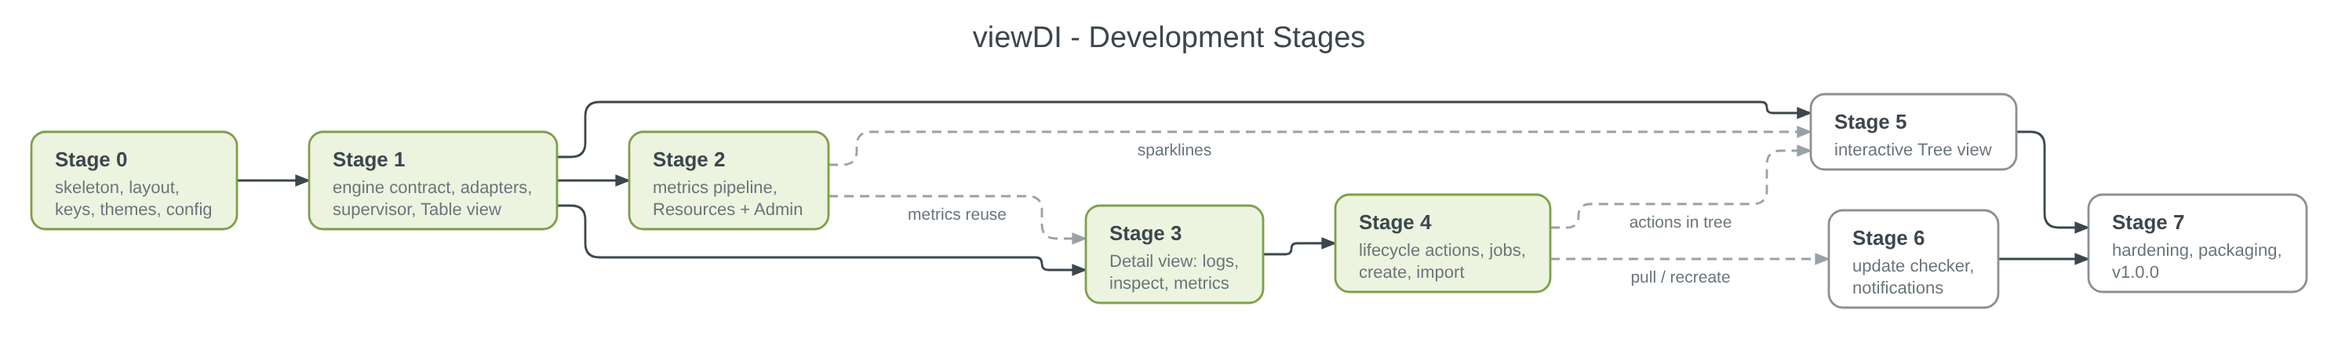
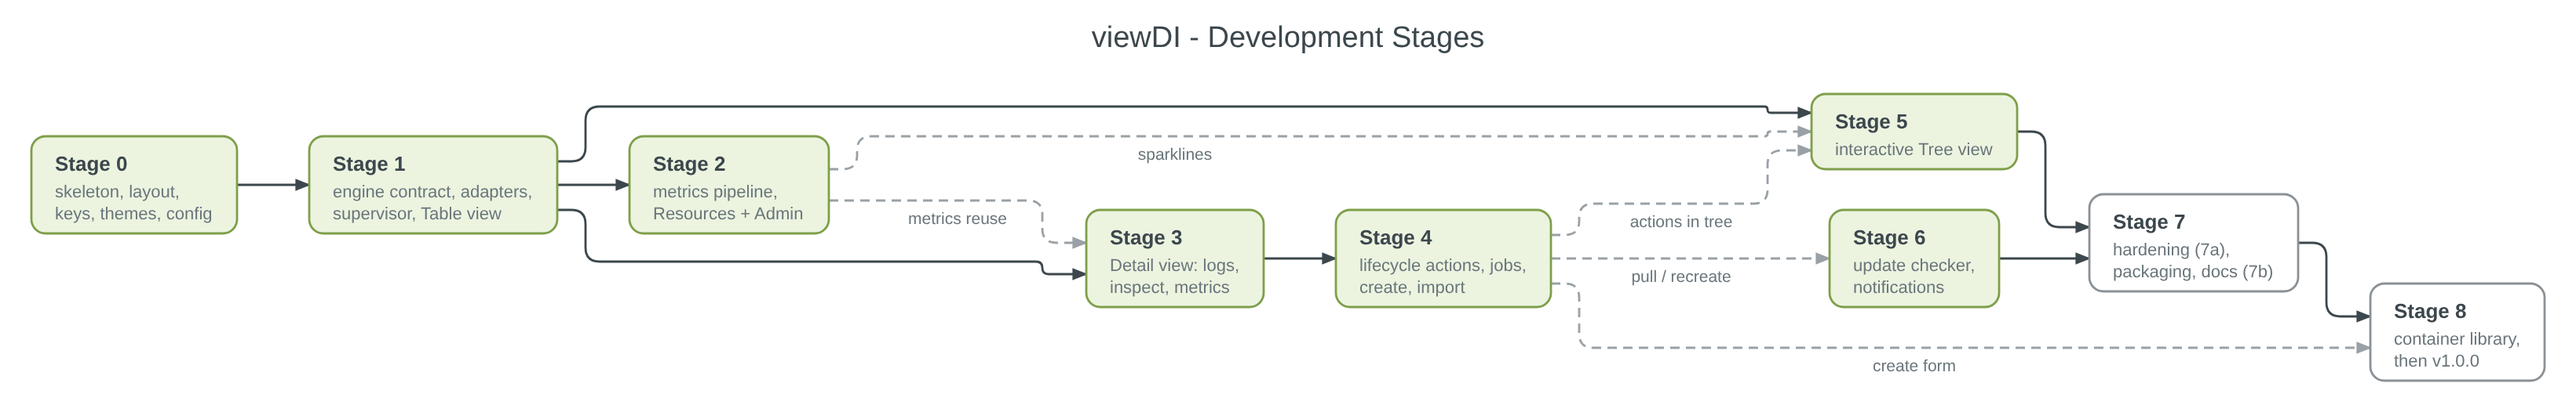
docs(plan): detail stage 7 (7a/7b) and propose stage 8, container library

diff --git a/docs/04-development-plan.md b/docs/04-development-plan.md
@@ -24,7 +24,8 @@ below is the recommended serial order for a single developer, which satisfies bo
 | 4 | Lifecycle actions, job runner, create forms, import | L | `v0.5.0` |
 | 5 | Interactive Tree view (5a), labs and animated links (5b) | M | `v0.6.0`, `v0.6.1` |
 | 6 | Update checker (6a), acting on updates and desktop notifications (6b) | M | `v0.7.0`, `v0.8.0` |
-| 7 | Hardening, packaging, docs | M | `v0.9.0` |
+| 7 | Hardening (7a), packaging and docs (7b) | M | `v0.9.0`, `v0.9.1` |
+| 8 | Container library: run well-known Docker images from a catalog | M | `v0.10.0` |
 
 Sizes: S ≈ a few sessions, M ≈ one to two weeks part-time, L ≈ two to three weeks part-time.
 
@@ -605,13 +606,136 @@ Acceptance criteria:
 
 ---
 
-## Stage 7 — Hardening, Packaging (`v0.9.0`)
+## Stage 7 — Hardening, Packaging (`v0.9.0`, `v0.9.1`)
 
-Tasks: full chaos suite run on real daemons; fuzzing campaign; performance profiling
-pass; accessibility pass (monochrome/no-color mode, `NO_COLOR`); man page and `--help`;
-`goreleaser` builds (static binaries amd64/arm64, `.deb`, `.rpm`, tarball; AUR PKGBUILD
-optional); README with demo GIFs (`vhs`); `CHANGELOG.md`; security review of the socket
-and subprocess handling.
+**Goal:** what `05-quality-plan.md` promises but the code does not do yet, then a release
+anyone can install: packages, a man page, user docs.
+
+Validated by the user on 2026-11-02, with adjustments: (a) delivered in two PRs, like
+Stages 5 and 6: **7a** (tasks 1–8: hardening; `v0.9.0`) and **7b** (tasks 9–12: packaging
+and docs; `v0.9.1`); (b) the license is Apache-2.0; (c) the AUR package is in scope; (d)
+the user runs the real-daemon chaos runbook on their own host, outside CI.
+
+Gaps found on `master` before the stage (2026-11-02): no crash report for a UI panic (F13);
+no `integration`-tagged test, so `make test-integration` runs nothing; no nightly job;
+the benchstat gate is commented out in `ci.yml`; `NO_COLOR` turns off the animation and the
+terminal colour query but every theme still relies on colour; no `LICENSE`, issue template,
+`CHANGELOG.md`, man page or release tooling.
+
+Tasks (7a):
+1. **Crash report (F13):** recover a panic in the program, restore the terminal, write
+   `~/.local/state/viewDI/crash-<ts>.log` (version, Go version, `$TERM`, stack, the last
+   200 trace entries — the trace ring runs even without `--trace`), print its path on exit
+   and exit non-zero. Regression test: a panic forced in `Update` leaves a readable log.
+2. **Integration tests (`-tags=integration`):** the `enginetest` contract suite against the
+   real Docker and Incus sockets; each engine is skipped when its socket is missing.
+   Mutating tests use a throwaway prefix (`viewdi-it-*`) and clean up after themselves.
+3. **Nightly workflow:** integration on a runner with Docker and Incus (Zabbly packages),
+   each fuzz target for 5 minutes, `govulncheck`. A failing fuzz target uploads its corpus
+   entry as an artifact.
+4. **Real-daemon chaos runbook** `docs/06-chaos-runbook.md`: one procedure per F1–F19 row
+   that can be provoked on a host (`systemctl stop`, `kill -STOP`, `chmod` on the socket,
+   daemon restart mid-stream, full disk with a tmpfs `XDG_STATE_HOME`…), the expected
+   behaviour and a results table. Run by the user; each bug found gets a fix and a fake
+   scenario.
+5. **Fuzzing campaign:** list every untrusted input (API payloads, log lines, package
+   manager output, release feeds, registry responses, config, themes, keys, labs, cache,
+   OpenMetrics, cgroup files) against the existing targets, add the missing ones, run a
+   long campaign; every crash becomes a seed in `testdata/fuzz`.
+6. **Performance pass:** measure every budget of `05-quality-plan.md` §4.1 (startup, idle
+   CPU with 50 instances, frame p99 at 120×40 and 300×80, input latency under log flood,
+   RSS) with benchmarks and `pprof`, record the numbers in the quality plan, fix what misses,
+   and enable the benchstat gate (> 15 % regression fails `bench`).
+7. **Accessibility:** a built-in `monochrome` theme used when `NO_COLOR` is set or
+   `[ui] monochrome = true`: bold, reverse, underline and glyphs instead of colour. Every
+   state (running/stopped/paused, alert levels, selection, marks, update badge, banners,
+   lanes) stays distinguishable; goldens in monochrome at 80×24 and 120×40.
+8. **Security review** `docs/07-security-review.md`: socket handling (a `DOCKER_HOST` over
+   TCP without TLS shows a warning), subprocesses (`xdg-open` only for `https` URLs, fixed
+   argument lists, no shell, timeouts), file permissions of everything viewDI writes,
+   pprof loopback check, untrusted text in notifications and toasts, `govulncheck` in CI.
+   Findings are fixed or documented with a reason.
+
+Tasks (7b):
+9. **CLI:** `--help` with examples, the XDG paths and the environment variables; man page
+   `viewdi(1)` generated from the flags (`go generate`, a test fails when it is stale);
+   shell completions for bash, zsh and fish (`viewdi completion <shell>`).
+10. **goreleaser:** static binaries (`CGO_ENABLED=0`) for amd64 and arm64, tarball, `.deb`
+    and `.rpm` (nfpm) with the man page and completions, checksums. A `release.yml`
+    workflow runs when a GitHub release is published and appends the assets to that
+    release (tags are created with the release in the GitHub UI).
+11. **AUR:** `packaging/aur/viewdi-bin/PKGBUILD` (+ `.SRCINFO`) built from the release
+    tarball and its checksum; published by hand.
+12. **User docs:** README for people who install it (packages, permissions: `docker` and
+    `incus-admin`/`incus` groups, config, keys, demo GIFs); `CHANGELOG.md` built from the
+    release notes `v0.1.0`…; `LICENSE` (Apache-2.0); a bug-report issue template (version,
+    engines and versions, socket type, terminal, `$TERM`, scenario or trace file).
+
+Acceptance criteria:
+- 7a: a panic in the UI leaves a sane terminal and a readable `crash-*.log`.
+- 7a: `make test-integration` passes against real Docker and Incus; the nightly job is green.
+- 7a: every §4.1 budget is measured and met; a > 15 % benchmark regression fails CI.
+- 7a: with `NO_COLOR` every state is distinguishable (goldens).
+- 7a: `govulncheck` is clean; every security finding is fixed or documented.
+- 7b: `goreleaser release --snapshot --clean` builds every artifact; the `.deb` and `.rpm`
+  install the binary, the man page and the completions; `makepkg` builds the AUR package.
+- The chaos runbook is complete for every F row that can be provoked on a host; the user's
+  run is recorded in it (not a merge gate).
+
+---
+
+## Stage 8 — Container Library (`v0.10.0`)
+
+**Goal:** browse a library of well-known Docker images (databases, web servers,
+self-hosted apps) and run one in a few keys, with sensible defaults already filled in.
+Proposed by the user on 2026-11-02; **task list pending validation**.
+
+Tasks:
+1. **Catalog format and built-in library:** `library/*.toml` embedded with `go:embed` (like
+   `themes/`), one entry per image: ID, name, category, description, image and pinned tag
+   (a major version, e.g. `postgres:17`), ports, environment (with `required` and
+   `generate = "password"` for secrets), named volumes and their container paths, restart
+   policy, docs URL, and a post-create note ("connect with `psql -h localhost -U postgres`").
+   Strict validation and a fuzzed parser. About 30 entries at first, grouped in categories:
+   databases (postgres, mysql, mariadb, redis, mongo), web and proxies (nginx, caddy,
+   traefik, httpd), monitoring (prometheus, grafana, uptime-kuma), messaging (rabbitmq,
+   mosquitto), self-hosted (nextcloud, gitea, vaultwarden, jellyfin, home-assistant,
+   pihole, syncthing, minio, node-red), dev tools (adminer, code-server, registry) and base
+   images (alpine, debian, ubuntu, busybox). Only official or widely used publishers.
+2. **User entries:** `~/.config/viewDI/library/*.toml`, same format, listed with a "user"
+   marker; a user entry with a built-in ID replaces it. Invalid files give a warning toast
+   and are skipped.
+3. **Library view (`7`):** categories on the left, entries in the middle, a panel with the
+   description, ports, environment (secrets masked), volumes and the note. `/` filters by
+   name, category and description; `enter` opens the create form prefilled from the entry.
+   An entry whose image is already present locally is marked; instances created from an
+   entry are counted ("2 running").
+4. **Run from the library:** the prefilled form is the Stage 4b create form (every field
+   editable): name proposed from the ID with a numeric suffix when taken, host ports moved
+   to the next free one when another container already publishes them (with a note),
+   generated secrets (crypto/rand) masked and revealable with `v`. Confirm → create job
+   (pull with progress, create, start) in Jobs; the post-create note is shown in the job
+   result. Instances get the label `io.viewdi.library=<id>`, shown in Overview.
+5. **Docker Hub search (`S` in the view):** reuses `SearchImages` from 4b to find images
+   that are not in the library (official and star count shown); the result opens a create
+   form with only the image filled in.
+6. **Safety and offline:** `--read-only` hides the run action; no network call is made just
+   to browse (the catalog is local); a failed pull ends the job with a clear error. Secrets
+   are never written to the debug log, the trace or `state.json`.
+7. **Tests and docs:** catalog validation (every built-in entry valid and its pinned tag
+   present in the fake), fuzzed parser, goldens of the view (80×24, 120×40, two themes),
+   flow test library → form → job → running instance, port and name conflict tests, a chaos
+   test (daemon dies mid-pull), mockups M8, README, demo tape.
+
+Acceptance criteria:
+- From the Library view, running postgres takes `7`, filter, `enter`, `enter`: a running
+  container with a generated password, a named volume and a free host port.
+- The catalog works offline; only the pull touches the network.
+- A user entry appears on the next start; an invalid one never breaks the view.
+
+Open questions for validation: Incus entries (e.g. `images:debian/12`, `images:alpine/edge`)
+in the same view, or Docker only for now; whether the post-create note should also be kept
+on the instance (as a label) for later.
 
 ---
 

diff --git a/CLAUDE.md b/CLAUDE.md
@@ -35,12 +35,13 @@ Design documents (read before making structural changes):
 - `docs/diagrams/src/*.json` — source of every diagram in `docs/img/` (rendered by
   `docs/diagrams/render.mjs`).
 
-Current phase: **Stage 6b done, in review** (Updates, split 6a `v0.7.0` / 6b
-`v0.8.0`); Stage 7 next. Stages 0–4a are tagged up to `v0.5.0`; 4b (create and import flows) is `v0.5.1`,
+Current phase: **Stage 7a** (hardening, `v0.9.0`); then 7b (packaging and docs,
+`v0.9.1`) and Stage 8 (container library, `v0.10.0`; task list pending validation).
+Stages 0–6 are done (6a `v0.7.0`, 6b `v0.8.0`). Stages 0–4a are tagged up to `v0.5.0`; 4b (create and import flows) is `v0.5.1`,
 the diagram redraw `v0.5.2`, 5a (the Tree view) `v0.6.0` and 5b (labs) `v0.6.1`.
 Do not start implementing a stage until the user validates its task list in
 `docs/04-development-plan.md` (Stage 0 validated 2026-10-28, Stages 1–4 validated
-2026-10-29, Stages 5 and 6 validated 2026-11-01).
+2026-10-29, Stages 5 and 6 validated 2026-11-01, Stage 7 validated 2026-11-02).
 
 ## Technology Stack
 
@@ -258,14 +259,13 @@ Always resolve paths through `internal/config` (which uses `adrg/xdg`); never ha
 Updated: 2026-11-02. Keep this section current — it is the handoff between sessions,
 harnesses and machines, and the only state another session can see.
 
-- **Done:** Stages 0–6a, tagged `v0.1.0` … `v0.6.1`; 6a merged as PR #10 (`851f39b`),
-  tag `v0.7.0` (release note written; the tag is created with the GitHub release, since
-  the session proxy refuses tag pushes).
-- **In review:** Stage 6b (tasks 8–11 in `docs/04-development-plan.md`, "As built (6b)")
-  on `claude/optimistic-mayer-9c00fw`: `PullImage`/`RefreshImage`/`Recreate` in the
-  engine contract, image jobs with an image re-check, Docker recreate with preview,
-  confirm and rollback, `updates/notifier` (D-Bus, then `notify-send`). Next: PR review
-  and merge, tag `v0.8.0` with the GitHub release; then Stage 7 (`v0.9.0`; validate its
-  task list first).
+- **Done:** Stages 0–6, tagged `v0.1.0` … `v0.8.0` (6b merged as PR #11, `428bf38`;
+  the `v0.8.0` tag is created with the GitHub release, since the session proxy refuses
+  tag pushes).
+- **Next:** Stage 7a (tasks 1–8 in `docs/04-development-plan.md`) on
+  `claude/optimistic-mayer-9c00fw`; 7b after it. License: Apache-2.0; the AUR package is
+  in scope; the user runs the real-daemon chaos runbook on their host (not a merge gate).
+- **Proposed:** Stage 8, a container library (view `7`, catalog of well-known Docker
+  images, run through the create form); the user must validate its task list first.
 - **Tag numbering:** 4a `v0.5.0`, 4b `v0.5.1`, diagram redraw `v0.5.2`, 5a `v0.6.0`,
-  5b `v0.6.1`, 6a `v0.7.0`, 6b `v0.8.0`, 7 `v0.9.0`.
+  5b `v0.6.1`, 6a `v0.7.0`, 6b `v0.8.0`, 7a `v0.9.0`, 7b `v0.9.1`, 8 `v0.10.0`.
